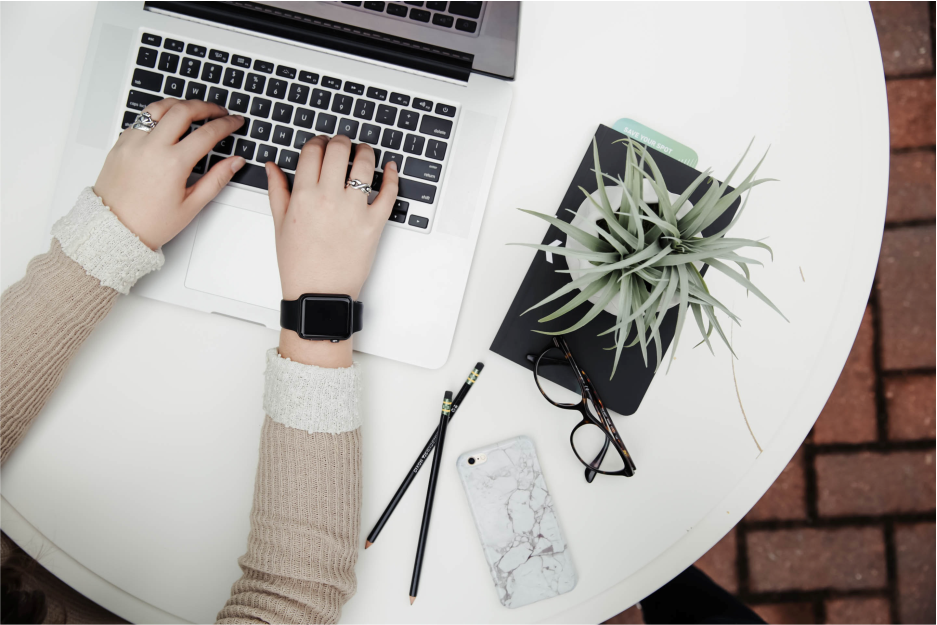
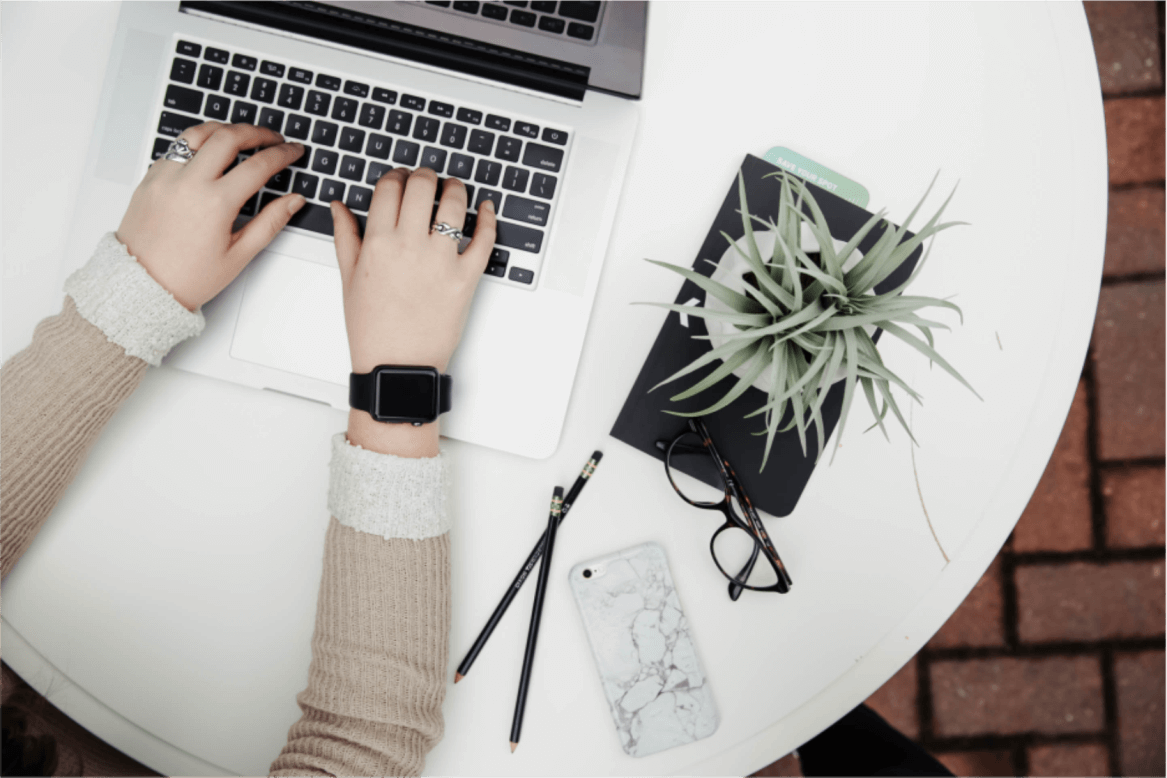
images size reduced and performance increase

diff --git a/src/components/NavBar/LoginButton/styles.js b/src/components/NavBar/LoginButton/styles.js
@@ -1,9 +1,28 @@
 import styled from 'styled-components'
 
+export const LoginButtonContainer = styled.div`
+  padding: 0.3rem 0.5rem;
+  cursor: pointer;
+  border: 2px solid var(--blue-50);
+  color: var(--blue-50);
+  margin-right: 1rem;
+  border-radius: 5px;
+  &:hover {
+    filter: brightness(0.8);
+  }
+  &:active {
+    transform: scale(0.98);
+  }
+  @media (max-width: 600px) {
+    font-size: 0.8rem;
+    padding: 0.3rem 0.5rem;
+  }
+`
+
 export const LoginContainer = styled.div`
   position: relative;
 
-  form{
+  form {
     display: flex;
     flex-direction: column;
     position: absolute;
@@ -13,7 +32,7 @@ export const LoginContainer = styled.div`
     padding: 1rem;
     background: var(--blue-700);
     border-radius: 5px;
-    
+
     input {
       margin-top: 1rem;
       padding: 0.5rem;
@@ -38,20 +57,13 @@ export const LoginContainer = styled.div`
       background: var(--gray);
       color: var(--blue-500);
       border-radius: 5px;
+      &:hover {
+        filter: brightness(0.8);
+      }
+      &:active {
+        transform: scale(0.98);
+      }
     }
   }
 `
 
-export const LoginButtonContainer = styled.div`
-  padding: 0.3rem 0.5rem;
-  cursor: pointer;
-  border: 2px solid var(--blue-50);
-  color: var(--blue-50);
-  margin-right: 1rem;
-  border-radius: 5px;
-
-  @media (max-width: 600px) {
-    font-size: 0.8rem;
-    padding: 0.3rem 0.5rem;
-  }
-`

diff --git a/src/components/CertificateCard/styles.js b/src/components/CertificateCard/styles.js
@@ -4,22 +4,36 @@ export const Container = styled.div`
     display: flex;
     position: relative;
     height: 15rem;
-    width: auto;
+    width: auto;    
+    transition: all 0.5s ;
 
-    h1{
-        position: absolute;
-        width: 100%;
-        top: 1rem;
-        color: var(--white);
-        margin: 0 auto;
-        text-align: center;
+    &:hover{
+        transform: scale(0.98);
     }
-    
     h3{
         position: absolute;
         width: 100%;
-        color: white;
-        bottom: 5.2rem;
+        bottom: 6.2rem;
         text-align: center;
+    }
+
+    p{
+        position: absolute;
+        width: 70%;
+        bottom: 4.7rem;
+        text-align: center;
+        font-size: 0.5rem;
+        left: 50%;
+        transform: translateX(-50%);
+    }
+
+    span{
+        position: absolute;
+        width: 70%;
+        bottom: 3.4rem;
+        text-align: center;
+        font-size: 0.8rem;
+        left: 50%;
+        transform: translateX(-50%);
     }
 `

diff --git a/src/pages/HomePage/styles.js b/src/pages/HomePage/styles.js
@@ -14,11 +14,12 @@ export const CarouselContainer = styled.div`
     width: 100%;
     height: 100%;
     z-index: -1;
-    background-image: url(./fromHome.png);
+    background-image: url(./homePage.png);
     background-repeat: no-repeat;
     background-size: cover;
     background-position: center;
-    background-attachment: fixed;
+    /* background-attachment: fixed; */
+
     div {
       position: absolute;
       width: 100%;
@@ -34,7 +35,7 @@ export const CarouselContainer = styled.div`
     align-items: center;
     max-width: 700px;
     padding: 2rem;
-    animation: fadeIn 1s;
+    animation: fadeIn 2s;
 
     .fadeIn {
       -webkit-animation-name: fadeIn;
@@ -67,6 +68,11 @@ export const CarouselContainer = styled.div`
       color: var(--gray);
       text-align: center;
       cursor: pointer;
+      transition: all 0.5s;
+
+      &:hover{
+          transform: scale(0.98);
+        }
 
       @media (max-width: 600px) {
         font-size: 3.2rem;

diff --git a/src/pages/UserPage/ProfessionalUser/index.js b/src/pages/UserPage/ProfessionalUser/index.js
@@ -52,24 +52,28 @@ export function ProfessionalUser() {
       format: [210, 297],
     })
 
-    doc.addImage('/certificateTest.jpg', 'JPEG', 0, 0, 297, 210)
+    doc.addImage('/certificatevDownload.png', 'JPEG', 0, 0, 297, 210)
 
     doc.setFontSize(40)
-    doc.setTextColor(255, 255, 255)
-    doc.text(`${course.title}`, 148, 30, null, null, 'center')
-
-    doc.setFontSize(40)
-    doc.setTextColor(255, 255, 255)
     doc.text(
       `${user.user.firstName} ${user.user.lastName}`,
       148,
-      135,
+      123,
       null,
       null,
       'center'
     )
 
-    doc.save()
+    doc.setFontSize(16)
+    doc.setTextColor(157,158,158)
+    doc.text(`Has succesccfully completed training`, 148, 140, null, null, 'center')
+
+    doc.setFontSize(30)
+    doc.setTextColor(0,0,0)
+    doc.text(`${course.title}`, 148, 155, null, null, 'center')
+
+
+    doc.save(`${course.title}/${user.user.firstName} ${user.user.lastName}`)
   }
 
   useEffect(() => {

diff --git a/src/pages/WhyPage/styles.js b/src/pages/WhyPage/styles.js
@@ -17,11 +17,11 @@ export const Container = styled.div`
       width: 100%;
       height: 100%;
       z-index: -1;
-      background-image: url(./fromHome.png);
+      background-image: url(./whyPage.png);
       background-repeat: no-repeat;
       background-size: cover;
       background-position: center;
-      background-attachment: fixed;
+      /* background-attachment: fixed; */
       div {
         position: absolute;
         width: 100%;
@@ -37,7 +37,7 @@ export const Container = styled.div`
       align-items: center;
       max-width: 700px;
       padding: 2rem;
-      animation: fadeIn 1s;
+      animation: fadeIn 2s;
 
       .fadeIn {
         -webkit-animation-name: fadeIn;
@@ -71,6 +71,7 @@ export const Container = styled.div`
         text-align: center;
         cursor: pointer;
         transition: all 0.5s;
+
         &:hover{
           transform: scale(0.98);
         }

diff --git a/src/components/NavBar/SignUpButton/styles.js b/src/components/NavBar/SignUpButton/styles.js
@@ -7,7 +7,12 @@ export const SignUpContainer = styled.div`
   color: var(--blue-900);
   border-radius: 5px;
   font-weight: 500;
-
+  &:hover {
+    filter: brightness(0.8);
+  }
+  &:active {
+    transform: scale(0.98);
+  }
   @media (max-width: 600px) {
     font-size: 0.8rem;
     padding: 0.3rem 0.5rem;
@@ -41,7 +46,6 @@ export const SignUpModal = styled.div`
     background-color: var(--blue-900);
     border-radius: 5px;
 
-
     input {
       margin-top: 1rem;
       padding: 1rem 0.7rem;
@@ -71,6 +75,12 @@ export const SignUpModal = styled.div`
 
       &:disabled {
         opacity: 0.5;
+      }
+      &:hover {
+        filter: brightness(0.8);
+      }
+      &:active {
+        transform: scale(0.98);
       }
     }
     .recaptcha {

diff --git a/src/pages/CourseDescriptionPage/styles.js b/src/pages/CourseDescriptionPage/styles.js
@@ -11,7 +11,7 @@ export const Container = styled.div`
     width: 100vw;
     height: 50vh;
     z-index: -1;
-    background-image: url(/fromHome.png);
+    background-image: url(/background.png);
     background-repeat: no-repeat;
     background-size: cover;
     background-position: center;
@@ -38,7 +38,7 @@ export const Container = styled.div`
     }
   }
 `
-export const TextContainer = styled.p`
+export const TextContainer = styled.div`
   max-width: 1080px;
   margin: 0 auto;
   text-align: justify;

diff --git a/src/components/CertificateCard/index.js b/src/components/CertificateCard/index.js
@@ -7,9 +7,10 @@ export function CertificateCard({course, user}) {
     
     return (
         <Container>
-            <img src="/certificateTest.png" alt="certificate" />
-            <h1>{course.title}</h1>
+            <img src="/certificatevView.png" alt="certificate" />
             <h3>{user.user.firstName} {user.user.lastName}</h3>
+            <p>Has succesccfully completed training</p>
+            <span>{course.title}</span>
         </Container>
     )
 }

diff --git a/src/components/CourseContent/index.js b/src/components/CourseContent/index.js
@@ -3,6 +3,7 @@ import { Container, TextContainer } from './styles'
 import MarkdownView from 'react-showdown';
 
 export function CourseContent({ content, loading }) {
+
   if (loading) {
     return <h2>loading</h2>
   } else {

diff --git a/src/components/CourseContent/styles.js b/src/components/CourseContent/styles.js
@@ -16,7 +16,7 @@ export const Container = styled.div`
   }
 `
 
-export const TextContainer = styled.p`
+export const TextContainer = styled.div`
   max-width: 1080px;
   padding: 1rem;
   background-color: var(--gray);
